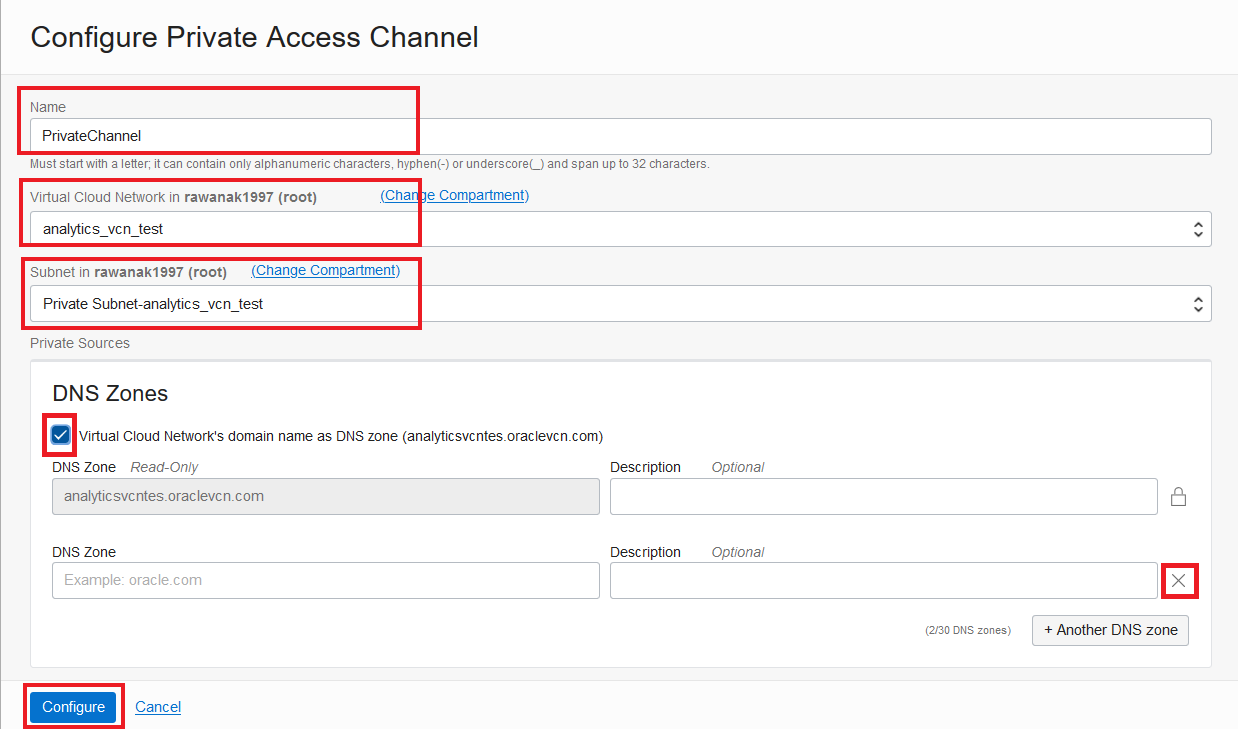
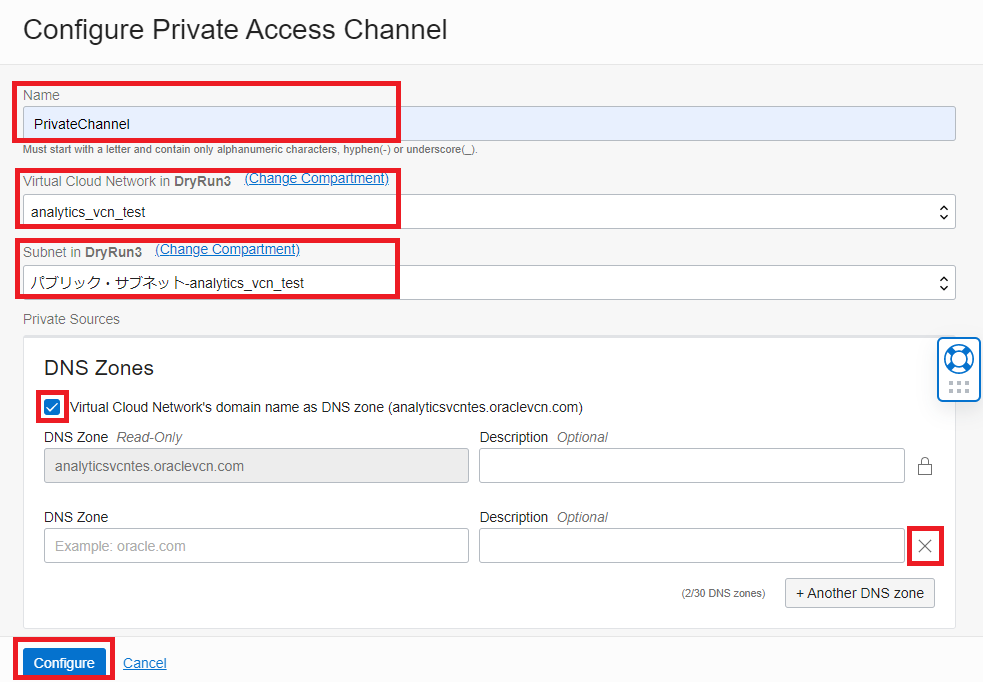
Update README.md

diff --git a/README.md b/README.md
@@ -1,10 +1,10 @@
 # HeatWaveを活用した驚異的なパフォーマンスを持つ分析基盤構築
 
 このワークショップでは、Oracle Cloud Infrastructureで分析ワークロードを実行する、もしくはクエリ処理を高速化するためにMySQL Database ServiceとHeatwaveをデプロイするプロセスについて説明します。
- 
+
 HeatWaveは、MySQL Database Service(MDS)用に新しく統合された高性能クエリ実行エンジンです。 HeatWaveは、分析クエリ実行のパフォーマンスを400倍高速化し、数千コアにスケールアウトし、Amazon Redshiftの3分の1のコストで2.7倍処理が高速になります。 HeatWaveを備えたMDSは、データベース管理者とアプリ開発者がMySQLデータベースから直接OLTPおよびOLAPワークロードを実行できるようにする唯一のサービスであり、複雑で時間と費用のかかるデータ移動や分析ワークロードと分離する必要性を排除します。</br>
 このサービスは、Oracle Cloud Infrastructure（OCI）向けに最適化されています。
- 
+
 ハンズオンを進めるとMDSにロードされたサンプルデータに対してクエリを実行し、Heatwaveを利用する場合と利用しない場合の実行時間の比較ができるようになります。HeatWaveの性能を体感してください！
 
 ![](./images/Intro.png)
@@ -22,49 +22,49 @@ HeatWaveは、MySQL Database Service(MDS)用に新しく統合された高性能
 **前提条件**
 -  このハンズオンでは、Oracle Cloud Infrastructureのアカウントが必要になります。有償アカウント、もしくはトライアルアカウントをご用意ください。
 -  コンパートメントが作成されたテナンシが必要になります。
-  
+
 
 # ハンズオン概要
- 
+
  **準備ができたら始めましょう**
- 
-## Lab 0 - Oracle Cloud Infrastructureのトライアルアカウントを作成する
+
+## Lab 00 - Oracle Cloud Infrastructureのトライアルアカウントを作成する
 
 **学べること**
 
 - トライアルアカウントの作成方法
 - OCIコンソールの基本操作、およびコンパートメントの作成方法
 
-**[Click here for Lab 0](/Lab0/README.md)**
+**[Click here for Lab 00](/Lab00/README.md)**
 
-## Lab 1 - 仮想ネットワークを作成し、MySQL Database Serviceポートへの接続を確立する
+## Lab 01 - 仮想ネットワークを作成し、MySQL Database Serviceポートへの接続を確立する
 
 **学べること**
- 
+
 -	仮想クラウド・ネットワークの作成方法
 -	セキュリティリストにイングレスルールを追加してMySQL Database Serviceポートへの接続を確立する
 
-**[Click here for Lab 1](/Lab1/README.md)**
+**[Click here for Lab 01](/Lab01/README.md)**
 
-## Lab 2 – 踏み台サーバーとなるコンピュートインスタンスを作成する
+## Lab 02 – 踏み台サーバーとなるコンピュートインスタンスを作成する
 
 **学べること**
 
 -	特定のコンパートメントにコンピュート・インスタンスを作成する方法
- 
-**[Click here for Lab 2](/Lab2/README.md)**
 
-## Lab 3 - MySQL DB System (MDS) および Heatwaveをデプロイする
+**[Click here for Lab 02](/Lab02/README.md)**
+
+## Lab 03 - MySQL DB System (MDS) および Heatwaveをデプロイする
 
 **学べること**
 
 -  MySQL Database Service および Heatwaveをデプロイし、設定する方法
 -  管理者の作成方法
 
-  
-**[Click here for Lab 3](/Lab3/README.md)**
 
-## Lab 4 – 踏み台サーバーでのMySQL Shellのインストールとサンプルデータのダウンロード
+**[Click here for Lab 03](/Lab03/README.md)**
+
+## Lab 04 – 踏み台サーバーでのMySQL Shellのインストールとサンプルデータのダウンロード
 
 **学べること**
 
@@ -72,45 +72,55 @@ HeatWaveは、MySQL Database Service(MDS)用に新しく統合された高性能
 -  MySQL Shellの起動方法
 -  サンプルデータのダウンロード、およびセットアップ
 
-**[Click here for Lab 4](/Lab4/README.md)**
+**[Click here for Lab 04](/Lab04/README.md)**
 
-## Lab 5 – HeatWaveクラスタをMySQL Database Serviceに追加する
+## Lab 05 – HeatWaveクラスタをMySQL Database Serviceに追加する
 
 **学べること**
 
 -  HeatWaveクラスタを有効にする方法
-  
-**[Click here for Lab 5](/Lab5/README.md)**
 
-## Lab 6 – MDSへのデータインポートとHeatWaveへのデータロード
+**[Click here for Lab 05](/Lab05/README.md)**
+
+## Lab 06 – MDSへのデータインポートとHeatWaveへのデータロード
 
 **学べること**
 
 -  MDSにデータを格納する方法 
-  
-**[Click here for Lab 6](/Lab6/README.md)**
 
-## Lab 7 – HeatWaveを有効にしてクエリを実行する
+**[Click here for Lab 06](/Lab06/README.md)**
+
+## Lab 07 – HeatWaveを有効にしてクエリを実行する
 
 **学べること**
 
 -  HeatWaveを有効にし、HeatWaveが無効になっている場合とクエリ実行時間を比較する
-  
-**[Click here for Lab 7](/Lab7/README.md)**
 
-## Bonus Lab 8a - OCI Bastion Serviceを利用してMDSをリモートで使う
+**[Click here for Lab 07](/Lab07/README.md)**
+
+## Lab 08 - OAC用のサンプルデータをMDS及びHeatWaveにロードする。Oracle Analytics Cloud(OAC) を構成して、OACからMDS for HeatWaveに接続する。
+
+**学べること**
+
+- OAC用のサンプルデータのダウンロード、MDSおよびHeatWaveへサンプルデータをロードする方法
+- Oracle Analytics Cloud(OAC)及びPrivate Access Channel(PAC)の構成方法
+- OACからPAC経由でMDSへ接続する方法
+
+**[Click here for Lab 08](/Lab08/README.md)**
+
+## Bonus Lab 9 - OCI Bastion Serviceを利用してMDSをリモートで使う
 
 **学べること**
 
 - リモートでMDSを管理するためのOCI Bastion Serviceの構築方法
 
-**[Click here for Lab 8a](/Lab8a/README.md)**
+**[Click here for Lab 09](/Lab09/README.md)**
 
-## Bonus Lab 8b - MDS高可用性構成をデプロイする
+## Bonus Lab 10 - MDS高可用性構成をデプロイする
 
 **学べること**
 
 - MDS高可用性構成を作成する方法
 
-**[Click here for Lab 8b](/Lab8b/README.md)**
+**[Click here for Lab 10](/Lab10/README.md)**
 

diff --git a/Lab08/README.md b/Lab08/README.md
@@ -137,7 +137,9 @@ _**Note:**_ インスタンスの作成には _**15-20 分程度**_ かかりま
 ![](./images/three.png)
 
 ### **Step 8.9:**
-表示されたウインドウで、名前に _**PrivateChannel**_ 、仮想クラウド・ネットワークを _**analytics_vcn_test**_ 、サブネットを _**Private Subnet-analytics_vcn_test**_ にします。また、DNSゾーンの _**DNSゾーンとしての仮想クラウド・ネットワークのドメイン名(analyticsvcntes.oraclevcn.com)**_ にチェックを入れます。そして、追加で表示されたDNSゾーンの入力行を右側の _**✕**_ をクリックして削除します。その後、 _**構成**_ をクリックしてプライベート・アクセス・チャネルを構成します。
+表示されたウインドウで、名前に _**PrivateChannel**_ 、仮想クラウド・ネットワークを _**analytics_vcn_test**_ 、サブネットを _**パブリック・サブネット-analytics_vcn_test**_ にします。
+
+また、DNSゾーンの _**DNSゾーンとしての仮想クラウド・ネットワークのドメイン名(analyticsvcntes.oraclevcn.com)**_ にチェックを入れます。そして、追加で表示されたDNSゾーンの入力行を右側の _**✕**_ をクリックして削除します。その後、 _**構成**_ をクリックしてプライベート・アクセス・チャネルを構成します。
 
 _**Note:**_ プライベート・アクセス・チャネルの構成には _**40分-50分程度**_ かかります。 
 
